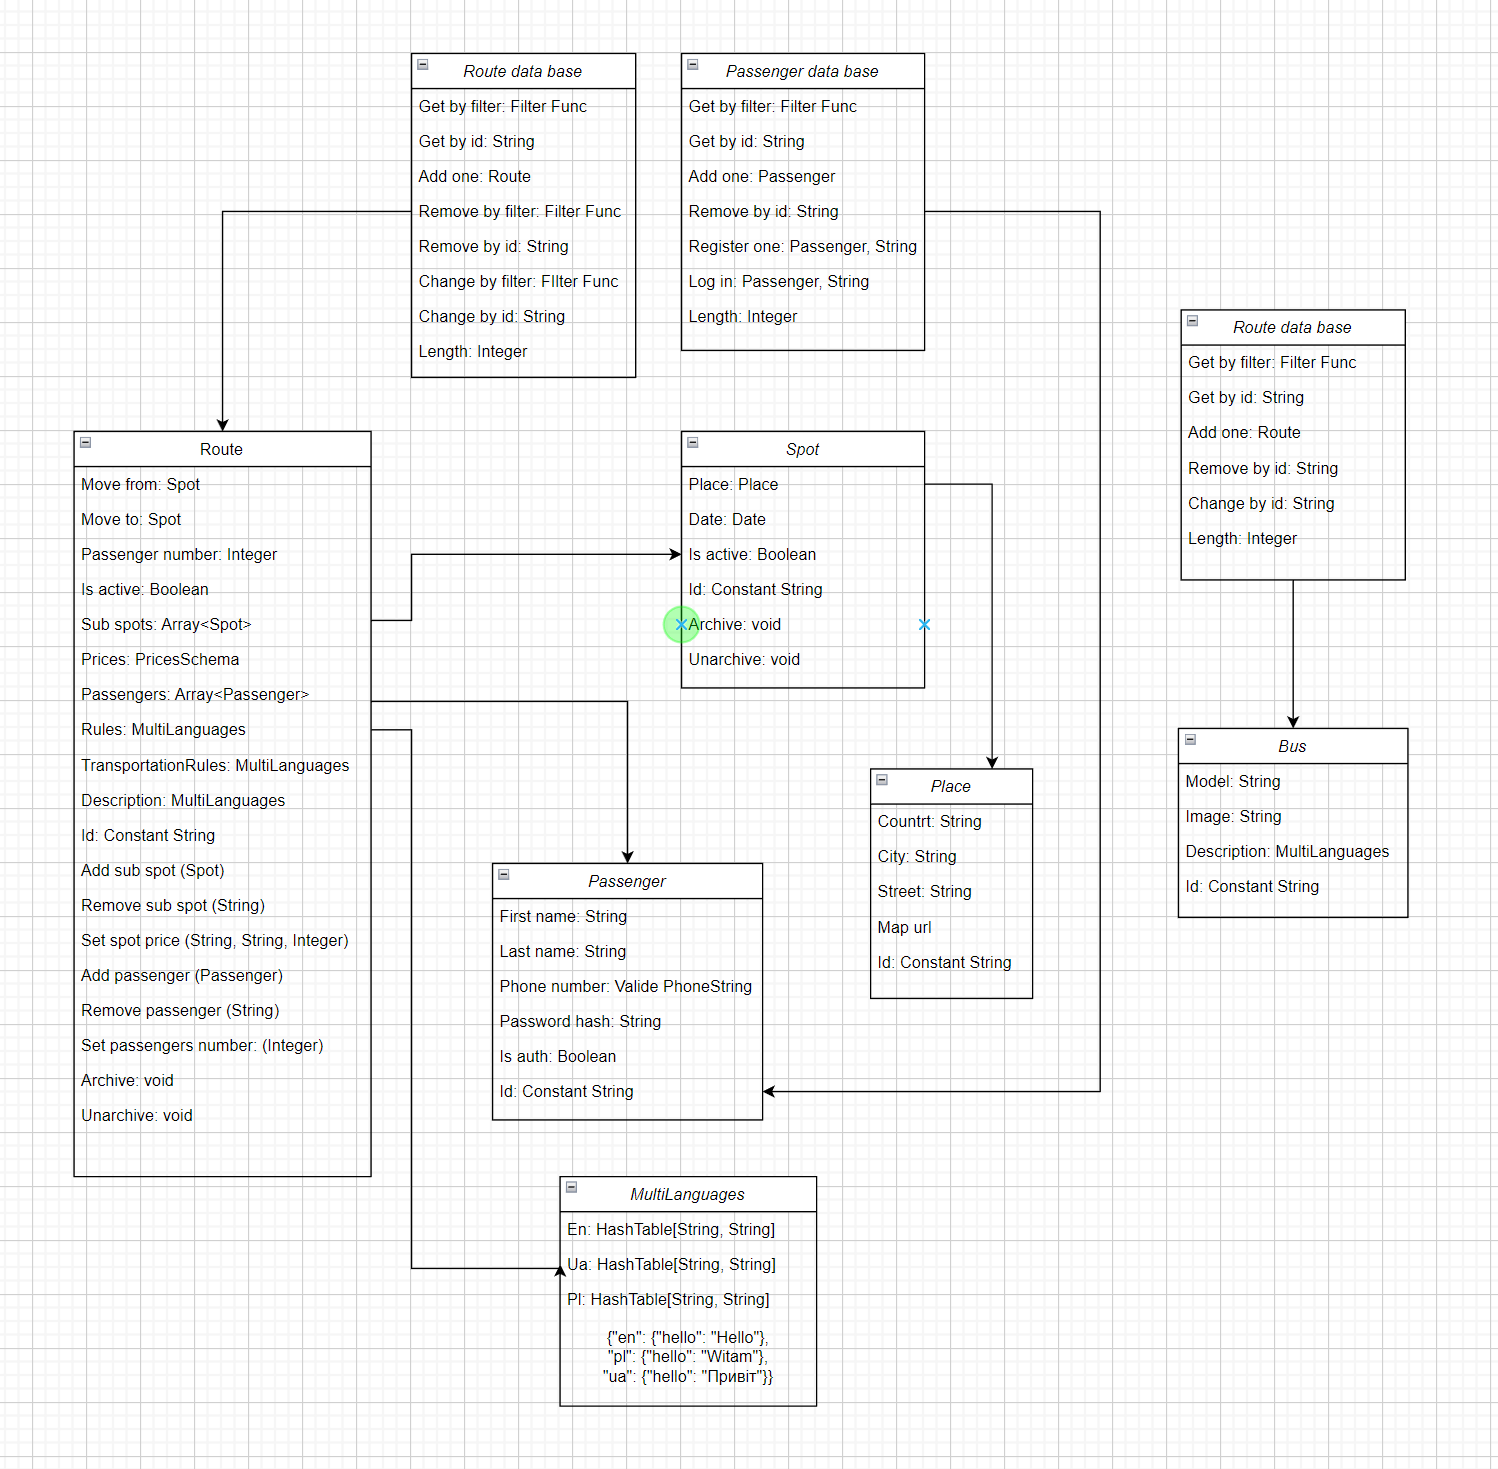
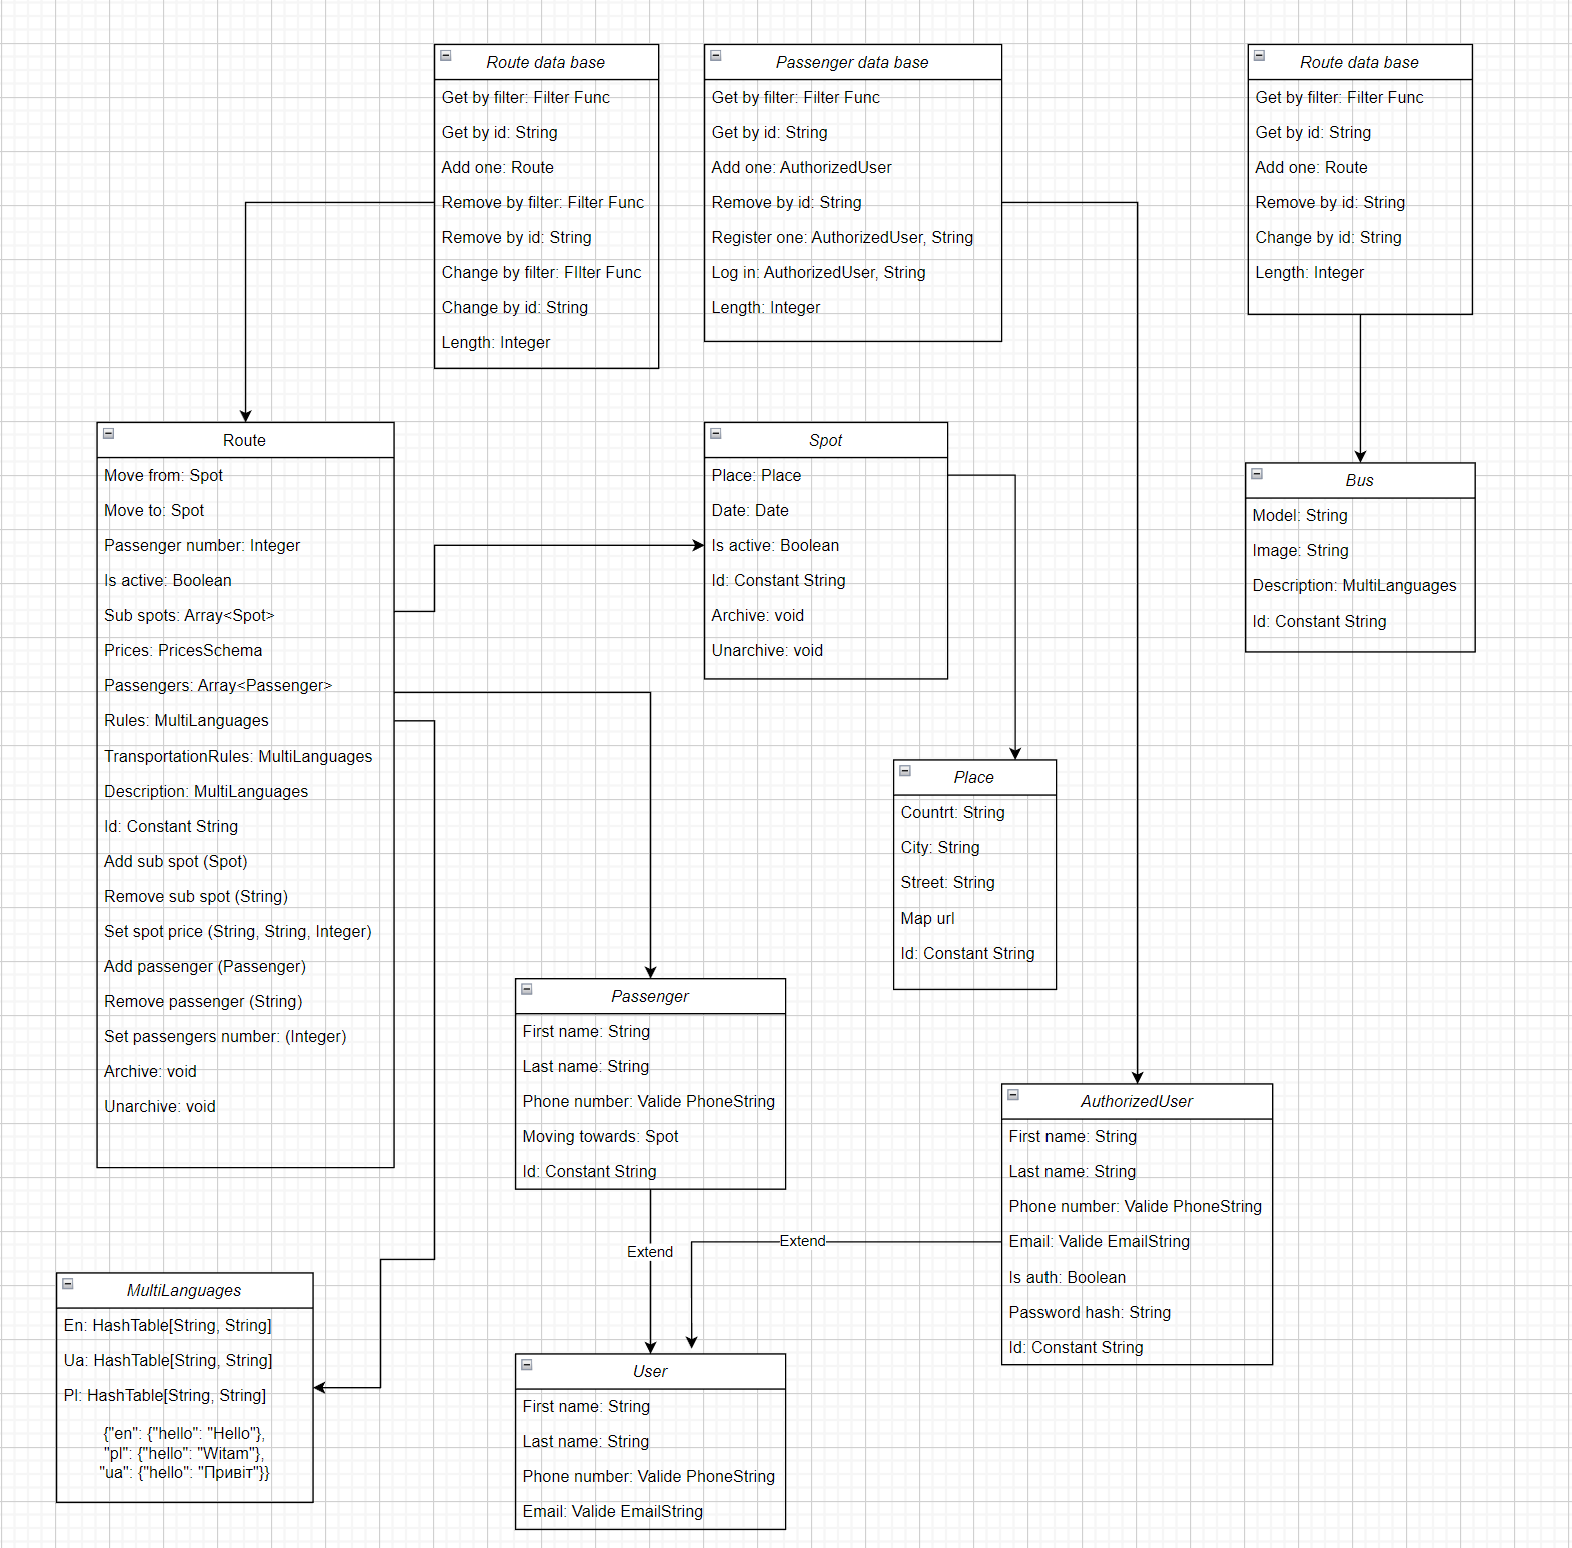
Update Passengers logic

diff --git a/db/utils/entities.py b/db/utils/entities.py
@@ -37,6 +37,32 @@ class DictAble(object):
         return self.to_dict()
 
 @dataclasses.dataclass
+class Bus(DictAble):
+    model: str
+    image: str
+    description: MultiLanguages = dataclasses.field(default_factory = lambda: enpty_languages.copy() )
+
+@dataclasses.dataclass
+class User(DictAble):
+    first_name: str
+    last_name: str
+    phone_number: str
+    email_address: str = None
+
+    def __eq__(self, other: 'User'):
+        return (
+            self.first_name == other.first_name
+            and self.last_name == other.last_name
+            and self.phone_number == other.phone_number
+        )
+
+@dataclasses.dataclass
+class AuthorizedUser(User):
+    is_authenticated: bool = False
+    password_hash: str = None
+    id: HashId = dataclasses.field(default_factory = lambda: str(uuid.uuid4()))
+
+@dataclasses.dataclass
 class Place(DictAble):
     country: str
     city: str
@@ -64,12 +90,8 @@ class Spot(DictAble):
         self.is_active = True
 
 @dataclasses.dataclass
-class Passenger(DictAble):
-    first_name: str
-    last_name: str
-    phone_number: str
-    is_authenticated: bool = False
-    password_hash: str = None
+class Passenger(User):
+    moving_towards: Spot = None
     id: HashId = dataclasses.field(default_factory = lambda: str(uuid.uuid4()))
 
 @dataclasses.dataclass
@@ -115,10 +137,13 @@ class Route(DictAble):
         else:
             self.prices[spot_to.id][spot_from.id] = price
 
-    def add_passenger(self, passenger: Passenger):
+    def add_passenger(self, passenger: Passenger, moving_towards: Spot = None):
         if len(self.passengers) == self.passengers_number:
             raise RouteBusIsFullError(self.passengers_number)
 
+        if not moving_towards:
+            moving_towards = self.move_to
+        
         self.passengers.append(passenger)
     
     def remove_passenger(self, passenger_id: HashId):
@@ -140,9 +165,3 @@ class Route(DictAble):
     
     def unarchive(self):
         self.is_active = True
-
-@dataclasses.dataclass
-class Bus(DictAble):
-    model: str
-    image: str
-    description: MultiLanguages = dataclasses.field(default_factory = lambda: enpty_languages.copy() )

diff --git a/db/passenger_db.py b/db/passenger_db.py
@@ -1,21 +1,21 @@
 import typing
 import abc
 
-from .utils.entities import Passenger
+from .utils.entities import AuthorizedUser
 
 class IPassengerDatabase(abc.ABC):
     '''
     Abstract base class for passengers databases
     '''
     @abc.abstractmethod
-    def get_all(self, _filter: typing.Callable[[Passenger], bool] = lambda _: True) -> list[Passenger]:
+    def get_all(self, _filter: typing.Callable[[AuthorizedUser], bool] = lambda _: True) -> list[AuthorizedUser]:
         '''
         Fetch all passengers from the database with the given filter
         '''
         pass
 
     @abc.abstractmethod
-    def get_one(self, passenger_id: str) -> Passenger:
+    def get_one(self, passenger_id: str) -> AuthorizedUser:
         '''
         Return one passenger from the database
         @param passenger_id: The passenger id
@@ -23,14 +23,14 @@ class IPassengerDatabase(abc.ABC):
         pass
     
     @abc.abstractmethod
-    def add_one(self, passenger: Passenger):
+    def add_one(self, passenger: AuthorizedUser):
         '''
         Add one non registered passenger to the database.
         '''
         pass
     
     @abc.abstractmethod
-    def register_one(self, passenger: Passenger, password_hash: str):
+    def register_one(self, passenger: AuthorizedUser, password_hash: str):
         '''
         Register passenger.
         NOTE: if passenger not in database, we will add him by calling .add_one(passenger)
@@ -38,7 +38,7 @@ class IPassengerDatabase(abc.ABC):
         pass
     
     @abc.abstractmethod
-    def login(self, phone: str, password_hash: str) -> Passenger:
+    def login(self, phone: str, password_hash: str) -> AuthorizedUser:
         '''
         Check if user exist, throw error if passenger is not exist else return Passenger entity
         '''

diff --git a/db/memory_passengers_db.py b/db/memory_passengers_db.py
@@ -1,28 +1,28 @@
 import typing
 
 from db.passenger_db import IPassengerDatabase
-from db.utils.entities import Passenger, HashId
+from db.utils.entities import AuthorizedUser, HashId
 
 class MemoryPassengerDatabase(IPassengerDatabase):
     def __init__(self):
-        self.passengers: dict[HashId, Passenger] = {}
+        self.passengers: dict[HashId, AuthorizedUser] = {}
 
-    def get_all(self, _filter: typing.Callable[[Passenger], bool] = lambda _: True) -> list[Passenger]:
+    def get_all(self, _filter: typing.Callable[[AuthorizedUser], bool] = lambda _: True) -> list[AuthorizedUser]:
         return list(filter(_filter, self.passengers.items()))
 
-    def get_one(self, passenger_id: str) -> Passenger:
+    def get_one(self, passenger_id: str) -> AuthorizedUser:
         return self.passengers.get(passenger_id)
 
-    def add_one(self, passenger: Passenger):
+    def add_one(self, passenger: AuthorizedUser):
         self.passengers[passenger.id] = passenger
 
-    def register_one(self, passenger: Passenger, password_hash: str):
+    def register_one(self, passenger: AuthorizedUser, password_hash: str):
         passenger.is_authenticated = True
         passenger.password_hash = password_hash
 
         self.add_one(passenger)
         
-    def login(self, phone: str, password_hash: str) -> Passenger:
+    def login(self, phone: str, password_hash: str) -> AuthorizedUser:
         maybe_passengers = self.get_all(lambda _passenger: _passenger.phone_number == phone)
 
         if maybe_passengers:
